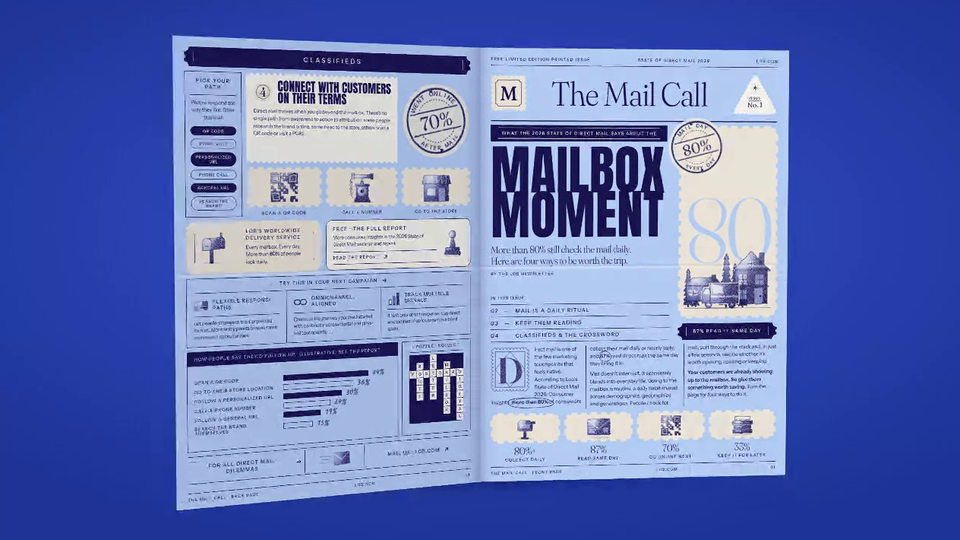
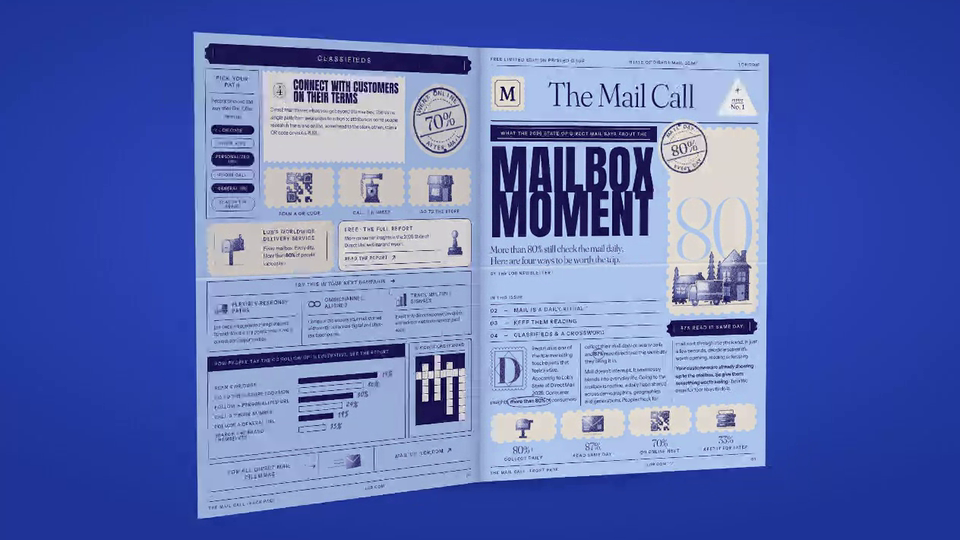
Lob Mail Call: unsolved crossword, Every single day stamp overlaps the headline
Claude-Session: https://claude.ai/code/session_016rpguc5B5SYFcQkza5DeAg

Changed region(s): [[0.1562, 0.0593, 0.8438, 0.9778]]

diff --git a/lob-mail-call/index.html b/lob-mail-call/index.html
@@ -424,7 +424,7 @@ function crossword(){
   const g={};let r0=99,c0=99,r1=0,c1=0;
   W.forEach(([w,r,c,d])=>[...w].forEach((ch,i)=>{const rr=r+(d==='d'?i:0),cc=c+(d==='a'?i:0);g[rr+','+cc]=ch;r0=Math.min(r0,rr);r1=Math.max(r1,rr);c0=Math.min(c0,cc);c1=Math.max(c1,cc)}));
   const starts={};W.slice().sort((a,b)=>a[1]-b[1]||a[2]-b[2]).forEach((w,i)=>starts[w[1]+','+w[2]]=i+1);
-  let cells='';for(let r=r0;r<=r1;r++)for(let c=c0;c<=c1;c++){const ch=g[r+','+c];cells+=ch?`<i class="cw">${starts[r+','+c]?`<u>${starts[r+','+c]}</u>`:''}${ch}</i>`:`<i class="cb2"></i>`}
+  let cells='';for(let r=r0;r<=r1;r++)for(let c=c0;c<=c1;c++){const ch=g[r+','+c];cells+=ch?`<i class="cw">${starts[r+','+c]?`<u>${starts[r+','+c]}</u>`:''}</i>`:`<i class="cb2"></i>`}
   return `<div class="cwg" style="grid-template-columns:repeat(${c1-c0+1},1fr);aspect-ratio:${c1-c0+1}/${r1-r0+1}">${cells}</div>`}
 
 /* ---------- the four pages (Lob's State of Direct Mail 2026 article) ----------
@@ -446,7 +446,7 @@ const PG=[
     <div class="an" style="font-size:128px;line-height:.84;letter-spacing:.004em">Mailbox<br>Moment</div>
     <div class="sf dk" style="font-size:24px;line-height:1.14;margin-top:16px;white-space:nowrap">More than 80% still check the mail daily.<br>Here are four ways to be worth the trip.</div>
     <div class="tc" style="font-size:9.5px;margin-top:12px">By the Lob Newsletter</div>
-    <div class="toc" style="margin-top:auto;padding-top:14px"><div class="tc" style="font-size:9.5px;padding:0 0 9px;border-bottom:var(--hl) solid var(--ink)">In this issue</div>${[['02','Mail is a daily ritual'],['03','Keep them reading'],['04','Classifieds &amp; the crossword']].map(r=>`<div class="tocr"><span>${r[0]}</span><span>—</span><span>${r[1]}</span></div>`).join('')}</div>
+    <div class="toc" style="margin-top:auto;padding-top:14px"><div class="tc" style="font-size:9.5px;padding:0 0 9px;border-bottom:var(--hl) solid var(--ink)">In this issue</div>${[['02','Mail is a daily ritual'],['03','Keep them reading'],['04','Classifieds &amp; a crossword']].map(r=>`<div class="tocr"><span>${r[0]}</span><span>—</span><span>${r[1]}</span></div>`).join('')}</div>
   </div>
   <div class="fl" style="gap:12px">
     <div style="flex:1;position:relative;display:flex"><div class="scal" style="--p:28px;--h:6.5px;--n:11px;flex:1;padding:26px 14px 16px">${scene()}</div><div class="callout" style="left:-30px;top:-22px;width:148px;height:148px">${rubber('MAIL DAY','80%','EVERY DAY',-14,'Stamp: 80 percent check daily')}</div></div>
@@ -464,7 +464,7 @@ ${foot(1,'Front page')}`,
 /* 2 · inside left */
 ()=>`
 <div class="tkt"><span class="tc" style="font-size:15px;letter-spacing:.3em">The Mailbox Moment</span></div>
-<div><div style="display:flex;justify-content:space-between;align-items:center;margin-bottom:10px"><span class="sf" style="font-size:32px">Mail is a</span><span class="cloud tc" style="--s:20px;padding:6px 30px;font-size:10px;text-align:center;line-height:1.3">Every<br>single day</span></div><div class="an" style="font-size:128px;line-height:.84;white-space:nowrap">Daily ritual</div></div>
+<div><div style="display:flex;justify-content:space-between;align-items:center;margin-bottom:10px"><span class="sf" style="font-size:32px">Mail is a</span><span class="cloud tc" style="--s:20px;padding:6px 30px;font-size:10px;text-align:center;line-height:1.3;position:relative;z-index:2;transform:translate(6px,34px) rotate(-5deg)">Every<br>single day</span></div><div class="an" style="font-size:128px;line-height:.84;white-space:nowrap">Daily ritual</div></div>
 <div style="display:grid;grid-template-columns:minmax(0,1fr) 262px;gap:var(--gc);align-items:start">
   <div class="tx cols2"><p><b>Going to the mailbox is routine.</b> Mail doesn't interrupt. Instead, it seamlessly blends into everyday life. It is a daily habit shared across demographics, geographies and generations.</p><p>People check for mail, sort through the stack and, in just a few seconds, decide whether it's worth opening, reading or keeping. That is the moment you are designing for.</p></div>
   <div class="perf c" style="padding:13px 16px 14px;display:flex;flex-direction:column;align-items:center;gap:6px">${star8(20)}<div class="sf" style="font-size:16px;line-height:1.2">“Your customers are already showing up to the mailbox. So give them something worth saving.”</div></div>
@@ -530,7 +530,7 @@ ${foot(3,'Page three')}`,
 ['chain','Omnichannel, aligned','Continue the journey your mail started with continuity across digital and physical touchpoints.'],
 ['chart','Track multiple signals','It isn’t only direct response. Use direct and indirect metrics to remove blind spots.']])}</div>
   <div class="panel" style="grid-column:span 3;display:flex;flex-direction:column;padding:0 0 10px"><div class="tc" style="font-size:10px;padding:10px 16px 9px;background:var(--ink);color:#bdd6fd">How people say they'd follow up · illustrative, see the report</div><div style="flex:1;display:flex;flex-direction:column;justify-content:center;padding:6px 16px 0">${chartBars([['Scan a QR code',44],['Go to their store location',36],['Follow a personalized URL',30],['Call a phone number',24],['Follow a general URL',19],['Search the brand themselves',15]])}</div></div>
-  <div class="panel" style="padding:7px 18px 9px;display:flex;flex-direction:column;align-items:center"><div class="tc c" style="font-size:10px;padding-bottom:6px;margin-bottom:6px;border-bottom:var(--hl) solid var(--ink);align-self:stretch">Puzzle · solved</div><div style="align-self:stretch">${crossword()}</div></div>
+  <div class="panel" style="padding:7px 18px 9px;display:flex;flex-direction:column;align-items:center"><div class="tc c" style="font-size:10px;padding-bottom:6px;margin-bottom:6px;border-bottom:var(--hl) solid var(--ink);align-self:stretch">Mailbox crossword</div><div style="align-self:stretch">${crossword()}</div></div>
   <div style="grid-column:span 4;display:grid;grid-template-columns:minmax(0,1fr) 150px minmax(0,1fr);align-items:center;gap:0;border-top:var(--hl) solid var(--ink);border-bottom:var(--hl) solid var(--ink)">
     <div class="tc c" style="padding:15px 8px;font-size:11.5px;display:flex;justify-content:center;gap:10px;align-items:center">For all direct mail dilemmas ${arw()}</div>
     <div style="height:52px;border-left:var(--hl) solid var(--ink);border-right:var(--hl) solid var(--ink);padding:6px 10px">${flyingEnvelope()}</div>
